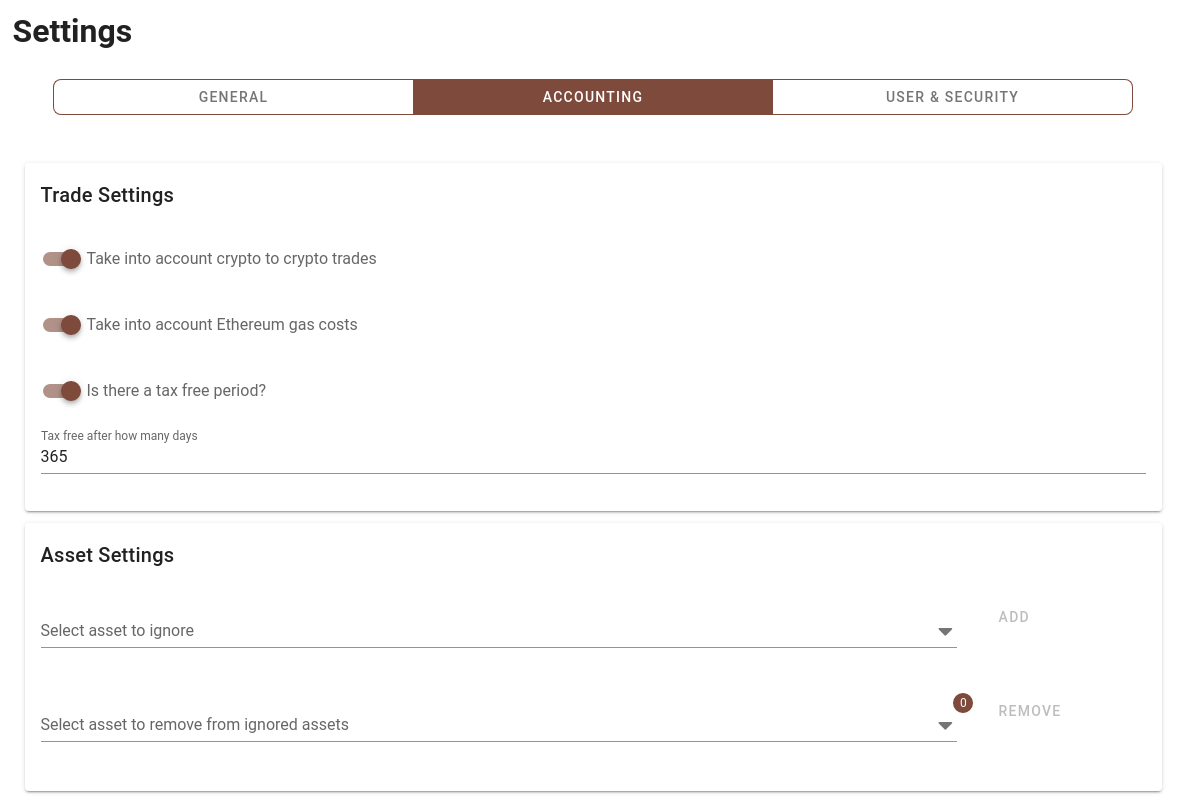
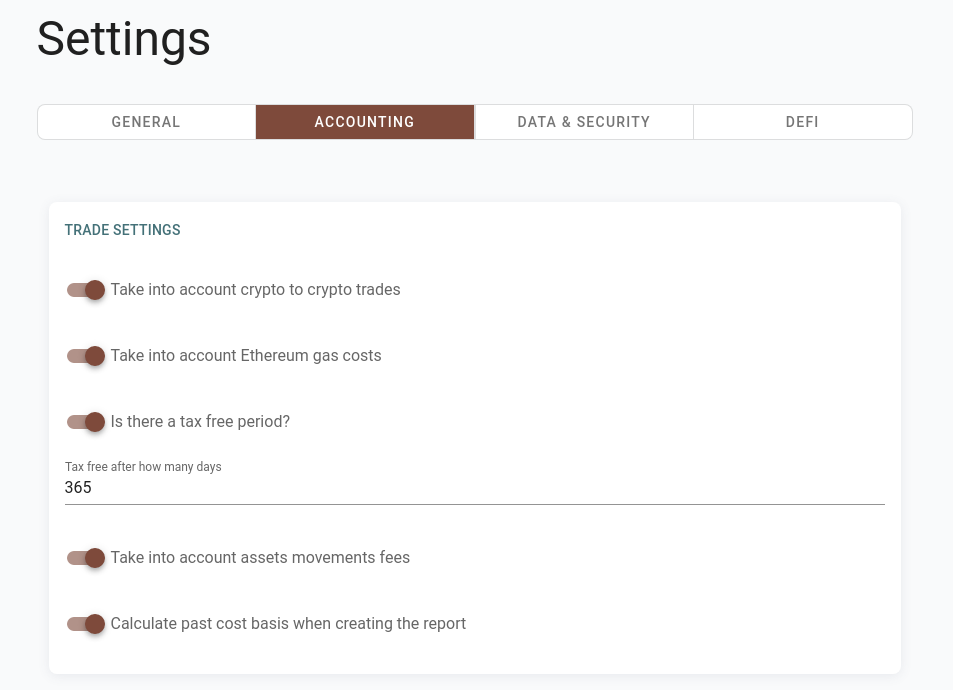
Update accounting settings

diff --git a/docs/usage_guide.rst b/docs/usage_guide.rst
@@ -245,29 +245,61 @@ You should understand what each setting does, consult with a tax accountant for 
 
 The default settings are at the moment set for the German tax jurisdiction. For example all profit/loss calculation is done for trades on a first-in/first-out basis and profits from selling crypto assets after 1 year are non taxable. These settings can be adjusted.
 
+Trade settings
+----------------
+
 .. image:: images/sc_accounting_settings.png
-   :alt: Customizing the accounting settings
+   :alt: Customizing the accounting trade settings
    :align: center
 
 Crypto to crypto trades
-------------------------
+^^^^^^^^^^^^^^^^^^^^^^^^^^^
 
 Specify whether crypto to crypto trades are taxable and should be taken into account. If yes then each crypto to crypto trade also creates a "virtual" trade that sells or buys the crypto asset for fiat and then sells or buys the fiat for the other crypto asset.
 
 Ethereum gas costs
----------------------
+^^^^^^^^^^^^^^^^^^^^^^
 
 Specify whether ethereum transaction gas costs should be counted as loss. If this is set then all ETH spent on gas will be deducted from your profits and count as an expense.
 
 Tax free period
--------------------
+^^^^^^^^^^^^^^^^^^^^
 
 Specify whether there is a period of time and if yes how many days, after which holding a crypto asset is considered not taxable.
 
-Ignored assets
------------------
+Asset movements fees
+^^^^^^^^^^^^^^^^^^^^^^^
 
-Specify which assets you own and would like to completely ignore from all calculations. Any actions that involve these assets are ignored.
+Specify whether deposit/withdrawal fees should count as expenses during the profit/loss report.
+
+Calculate past cost basis
+^^^^^^^^^^^^^^^^^^^^^^^^^^^^^
+
+When creating a profit/loss report we also need to figure out where and when all of the assets that the user is using were acquired from. Which is why we also go through all past events, even before the start of the period.
+
+This behavior can be disabled by turning this setting off.
+
+Asset settings
+--------------
+
+.. image:: images/sc_accountingasset_settings.png
+   :alt: Customizing the accounting asset settings
+   :align: center
+
+
+Ignored assets
+^^^^^^^^^^^^^^^
+
+Specify which assets you own and would like to completely ignore from all calculations and balance queries. Any actions that involve these assets are ignored.
+
+Ledger action settings
+-----------------------
+
+.. image:: images/sc_accountingledgeraction_settings.png
+   :alt: Customizing the accounting ledger action settings
+   :align: center
+
+Here you can choose which types of historical actions should be considered taxable and which not. For example in Germany airdrops are considered windfall profits and are not taxed, so you can specify that here.
 
 Customizing data & security settings
 ====================================
